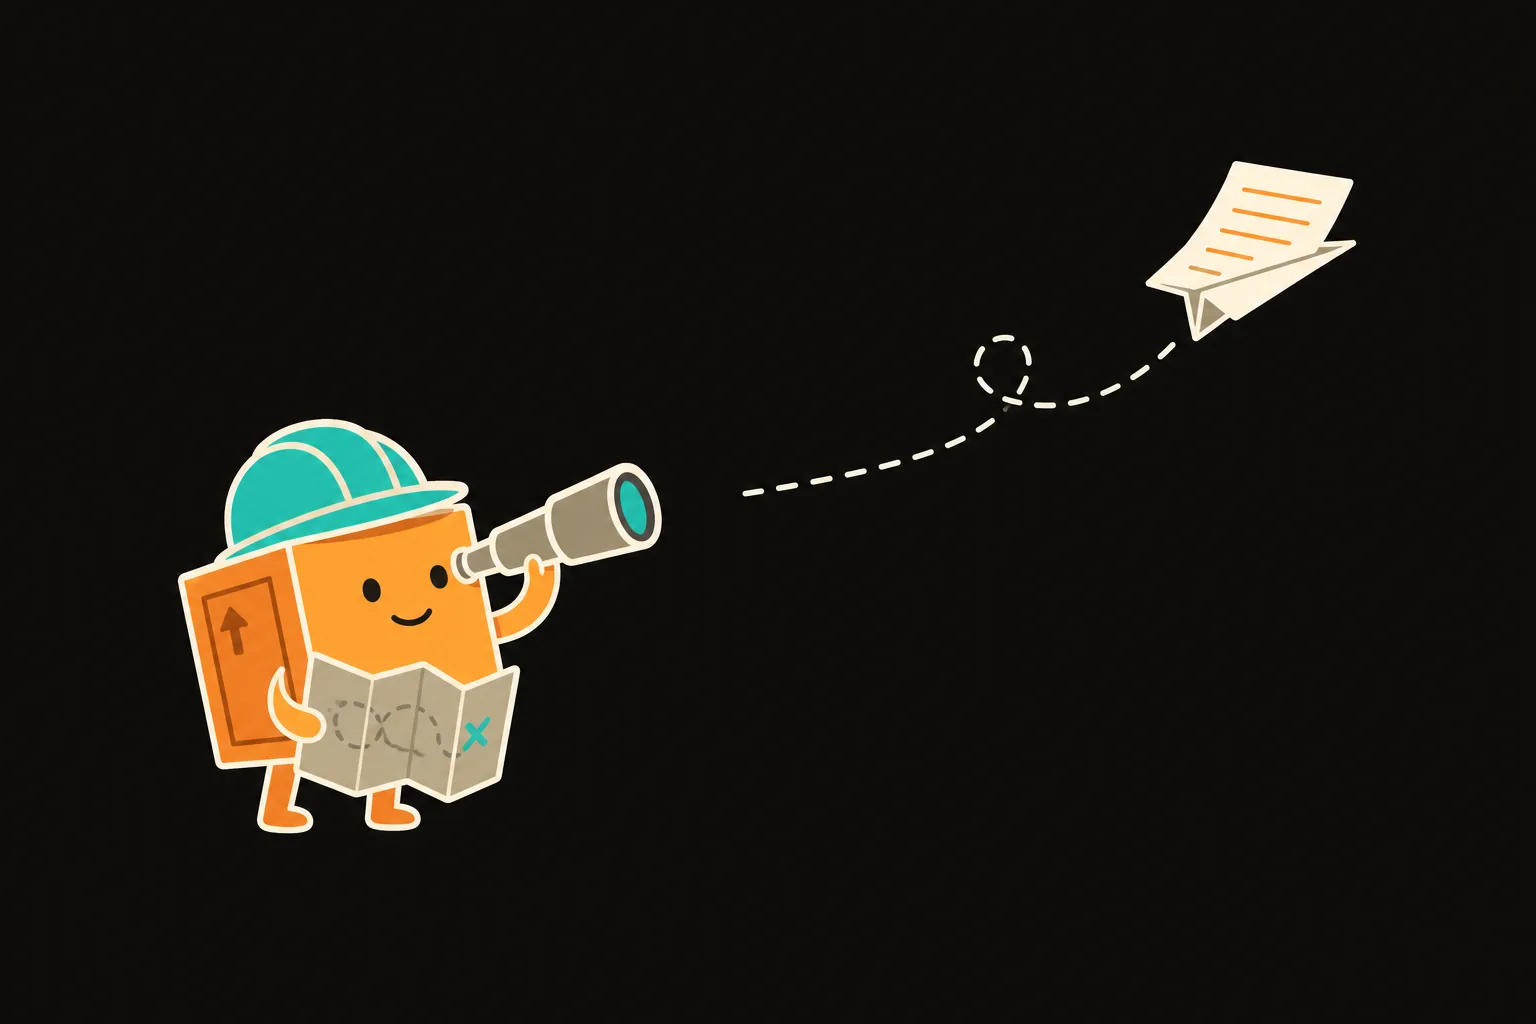
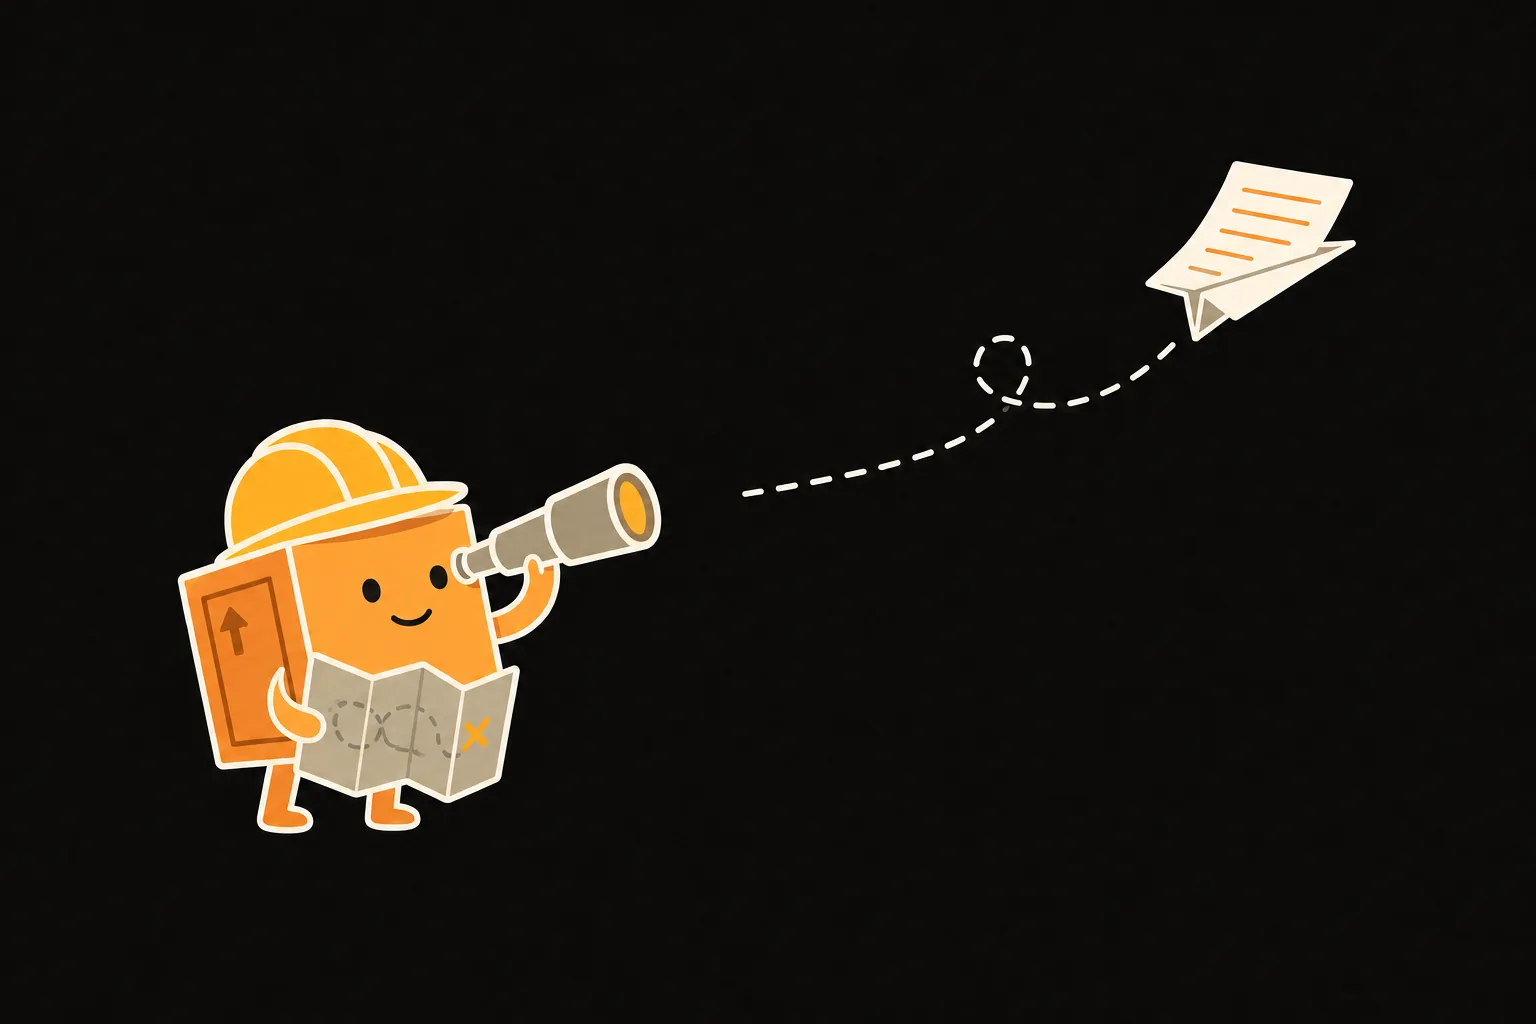
feat(site): hub mark with the Command motion, all-warm amber palette
The mark is now the central integrator drawn literally: a terminal at
the hub, three branches each side fanning out to six tools on an outer
ring at 0 and 38 degrees. One geometry is shared by the Logo component,
the favicon and a circular avatar (SVG plus 512/256 PNG). Its motion,
"Command", types two keystrokes then fires a signal down every branch
and bumps each tool on arrival, every 4.5s; pure CSS, off under reduced
motion.

Teal is retired: the palette is all warm, with amber taking its roles in
the site tokens, both image style files and the four cartoons (recolored
in place). CLAUDE.md records the mark, its motion and the palette.

diff --git a/site/src/styles/global.css b/site/src/styles/global.css
@@ -8,9 +8,9 @@
 
 :root {
   /* ---- color ----
-     Warmer, brighter than the Imagile finish: a flame-orange accent that
-     shades into amber, and a cool teal as its complement for values,
-     "live" states and the odd highlight. --rgb-* feed glows and tints. */
+     Warmer, brighter than the Imagile finish, and all warm: a flame-orange
+     accent that shades into amber, with amber on its own for values, "live"
+     states and the odd highlight. No second hue. --rgb-* feed glows and tints. */
   --color-bg: #16130f; /* must match the generated art; see Site in CLAUDE.md */
   --color-bg-deep: #0e0c09;
   --color-surface: #1f1a15;
@@ -20,13 +20,11 @@
   --color-faint: #857a6c;
   --rgb-accent: 255, 106, 61;
   --rgb-amber: 255, 184, 77;
-  --rgb-teal: 52, 226, 196;
   --color-accent: rgb(var(--rgb-accent));
   --color-amber: rgb(var(--rgb-amber));
-  --color-teal: rgb(var(--rgb-teal));
   --color-accent-soft: rgba(var(--rgb-accent), 0.14);
   --color-accent-ink: #160b05;
-  --color-ok: var(--color-teal);
+  --color-ok: var(--color-amber);
   --gradient-accent: linear-gradient(100deg, var(--color-accent) 10%, var(--color-amber) 90%);
   --color-line: rgba(246, 241, 233, 0.14);
   --color-line-strong: rgba(246, 241, 233, 0.3);

diff --git a/CLAUDE.md b/CLAUDE.md
@@ -306,9 +306,11 @@ from `main`).
   page. Grid children get `min-width: 0` so one long line can't widen the layout.
 - **Dark only.** It uses the Imagile design system's bones (type, grid, spacing,
   drafting-style iconography) in a dark finish with toil's own, brighter palette:
-  a flame-to-amber accent gradient and a teal complement, all as tokens in
-  `site/src/styles/global.css`. No light palette, no theme toggle. The background
-  stays `#16130f` because the generated art is painted on it.
+  all warm, with a flame-to-amber accent gradient and amber on its own for values,
+  "live" states and small highlights, as tokens in `site/src/styles/global.css`.
+  There's no second hue: no green, teal, blue or purple, in the site or in
+  generated art. No light palette, no theme toggle. The background stays
+  `#16130f` because the generated art is painted on it.
 - **Imagile is credited prominently**: a byline in the header, a linked "By Imagile"
   in the hero eyebrow, and a feature panel in the footer, all pointing to
   https://www.imagile.dev. Imagile's mark keeps its own colours.
@@ -325,19 +327,24 @@ from `main`).
   A reveal never clips the observed element itself (a fully clipped element never
   intersects, and a lazy image inside it never loads); clip its children.
 - **House style has three registers; pick by job, never mix them in one image.**
-  - *The mark* is toil's logo: branches converging into an orbit around a sheet
-    carrying a terminal prompt (`>_`), the central integrator. In motion, packets
-    flow in along a left branch, round the orbit, and out on the right (SMIL
-    `animateMotion`; `packets` sets how many). SMIL ignores media queries, so the
-    packets are hidden in CSS under reduced motion. It's flat, symbolic, serious, and hand-built SVG in
-    `site/src/components/Logo.astro` (wide and `square` cuts; the square one is also
-    `public/favicon.svg`). It never comes from an image model, and has no characters
-    and no jokes.
+  - *The mark* is toil's logo, and the central integrator drawn literally. A
+    terminal (a sheet with a `>_` prompt) is the hub. Three branches leave each
+    side of it and fan out to six tools, dots on an outer ring at 0° and 38° either
+    side of horizontal. It's flat, symbolic, serious, and hand-built SVG: the
+    component is `site/src/components/Logo.astro`, the static copies are
+    `public/favicon.svg` and `public/brand/toil-avatar.svg` (circular, with
+    transparent corners, exported to 512 and 256 PNG for avatars). All three share
+    one geometry; change them together. It never comes from an image model, and
+    has no characters and no jokes.
+  - *Its motion is "Command".* The ring and branches draw in, and the tools pop
+    on. Then, every 4.5s, the cursor types two keystrokes, a signal fires down all
+    six branches at once, and each tool bumps as it arrives. The motion is pure
+    CSS, so reduced motion turns it off.
   - *Diagrams* are precise drafting-style line drawings for how-it-works art (the
     hero), generated with `.claude/image-generation/style.md`.
   - *Cartoons* are lighthearted spot illustrations, generated with
     `.claude/image-generation/style-cartoon.md` (pass `--style-file`). The recurring
-    character is the crate, a package box in a teal-striped hard hat. The crate is
+    character is the crate, a package box in an amber-striped hard hat. The crate is
     always competent; the joke is on the bureaucracy around it, never on users or
     their employers.
 - **Generated art** sits on the page colour `#16130f` (or darker) and shows with

diff --git a/.claude/image-generation/style-cartoon.md b/.claude/image-generation/style-cartoon.md
@@ -1,11 +1,11 @@
 Style: lighthearted editorial cartoon spot illustration, like a witty magazine or tech-blog illustration. Flat colour fills with bold, clean, even-weight ivory outlines, simple rounded shapes, expressive but minimal faces, a little visual joke that reads at a glance. Calm and professional in finish: no clutter, no gradients except the accent, no glossy 3D, no photorealism, no text, no letters, no numbers, no logos or brand marks.
 
-Recurring character: "the crate", a small square cardboard package box with dot eyes, a small determined smile, stubby arms and legs, and a teal-striped hard hat. It is the hero of every scene and always competent, never the butt of the joke; the joke is on the bureaucracy around it.
+Recurring character: "the crate", a small square cardboard package box with dot eyes, a small determined smile, stubby arms and legs, and an amber-striped hard hat. It is the hero of every scene and always competent, never the butt of the joke; the joke is on the bureaucracy around it.
 
 Palette (use only these):
 - Flame orange #ff6a3d (rgb 255,106,61) shading to amber #ffb84d (rgb 255,184,77) for the crate and the key object
+- Amber #ffb84d on its own for small accents (the hard-hat stripe, a highlight). The palette is all warm: no green, teal, blue or purple anywhere
 - Ivory #f6f1e9 (rgb 246,241,233) for outlines, paper and highlights
-- Teal #34e2c4 (rgb 52,226,196) for one or two small accents
 - Warm greys #b4a998 and #5c5248 for secondary characters and props
 - Background: one solid flat #16130f (rgb 22,19,15) with no texture, vignette, floor shadow or frame
 

diff --git a/.claude/image-generation/style.md b/.claude/image-generation/style.md
@@ -3,7 +3,7 @@ Style: precise technical line drawing, like an engineer's drafting sheet or a pa
 Palette (use only these):
 - Ivory linework #ece7df (rgb 236,231,223) for most strokes
 - Flame orange #ff6a3d (rgb 255,106,61) for the focal element, shading into amber #ffb84d (rgb 255,184,77)
-- Teal #34e2c4 (rgb 52,226,196) for one or two small accents only
+- Amber #ffb84d on its own for one or two small accents. All warm: no green, teal, blue or purple
 - Muted taupe #a89e91 (rgb 168,158,145) for construction lines and secondary detail
 - Background: fully transparent, or warm near-black #16130f (rgb 22,19,15) when transparency is impossible
 
